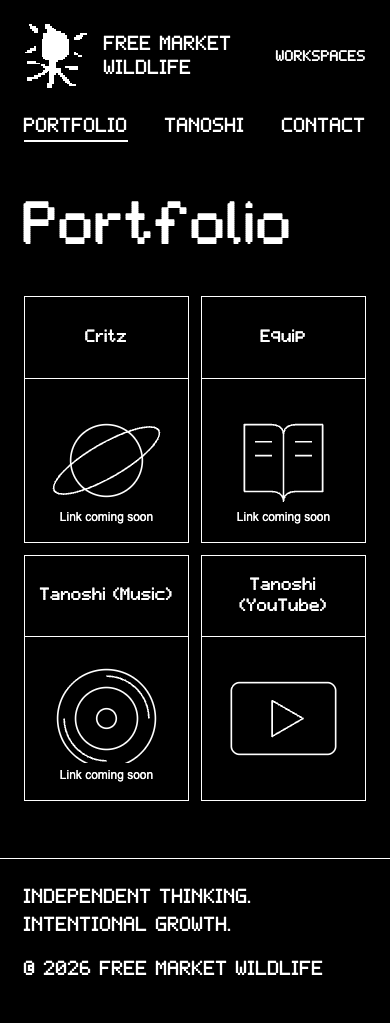
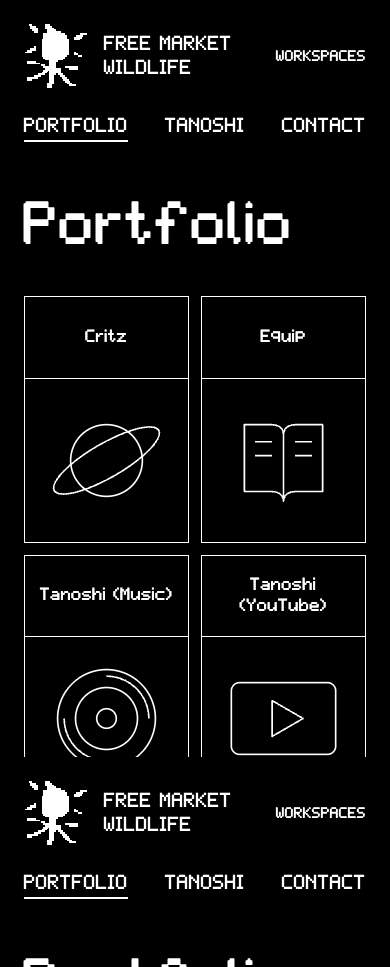
Link portfolio cards to empty project pages and split Tanoshi into Music and YouTube

diff --git a/tanoshi/index.html b/tanoshi/index.html
@@ -5,10 +5,12 @@
   <meta name="viewport" content="width=device-width, initial-scale=1">
   <meta name="color-scheme" content="dark">
   <meta name="theme-color" content="#000000">
-  <meta name="description" content="A creative studio for moving images, original sound, and imagined worlds.">
+  <meta name="description" content="Tanoshi Music and YouTube portfolio.">
   <title>Tanoshi — Free Market Wildlife</title>
   <link rel="icon" href="/assets/images/mark.svg" type="image/svg+xml">
   <link rel="stylesheet" href="/assets/css/styles.css">
+  <link rel="stylesheet" href="/assets/css/portfolio.css?v=1">
+
   <script type="module" src="/assets/js/app.js?v=4-open"></script>
 <script type="module" src="/assets/js/account.js?v=2"></script></head>
 <body>
@@ -18,32 +20,15 @@
   <nav aria-label="Primary"><a href="/portfolio/">Portfolio</a><a href="/tanoshi/" aria-current="page">Tanoshi</a><a href="/contact/">Contact</a></nav>
   <button class="access-button" type="button" data-open-access aria-label="Workspaces"><span>Workspaces</span></button>
 </header>
-<main class="page-main" id="main" tabindex="-1">
-  <div class="page-heading"><div><span class="eyebrow">02 / THE CREATIVE PRACTICE</span><h1>Tanoshi<span class="accent">.</span><br><span class="muted">A little less ordinary.</span></h1></div><p>Moving images. Original sound. Imagined worlds. A home for work made with curiosity.</p></div>
-  <div class="section-rule"><h2>Inside the studio</h2><span class="badge">CATALOG IN PREPARATION</span></div>
-  <div class="studio-grid">
-    <section class="panel film-module"><div class="module-heading"><span class="eyebrow">01 / MOTION & STORY</span><span class="micro">VIDEO</span></div><div class="video-wrapper"><video preload="none" poster="/assets/images/studio-poster.svg" aria-label="Showreel placeholder; no video source has been added"></video><span class="media-note">SHOWREEL PLACEHOLDER · MEDIA COMING SOON</span></div><div class="module-copy"><h2>Stories in motion.</h2><p>A space for films, edits, and visual experiments. Add an approved showreel to bring this frame to life.</p><a class="text-button" href="https://www.youtube.com/" target="_blank" rel="noopener noreferrer">Explore YouTube <span aria-hidden="true">↗</span></a><span class="micro muted">Platform link · creator channel to be added</span></div></section>
-    <section class="panel audio-module"><div class="module-heading"><span class="eyebrow">02 / SOUND & MUSIC</span><span class="micro">AUDIO</span></div><div class="record-art" aria-hidden="true"><div><span>T<br>001</span></div></div><div class="module-copy"><span class="eyebrow">LISTENING ROOM</span><h2>Let it resonate.</h2><p>Original music and audio work. This player is ready for the first approved track.</p><div class="audio-placeholder" role="img" aria-label="Audio player placeholder; no track has been added"><span aria-hidden="true">▸</span> No audio uploaded</div><span class="micro muted">NO AUDIO UPLOADED</span><a class="text-button" href="https://soundcloud.com/" target="_blank" rel="noopener noreferrer">Explore SoundCloud <span aria-hidden="true">↗</span></a><span class="micro muted">Platform link · artist profile to be added</span></div></section>
-    <section class="panel worlds-module"><div><span class="eyebrow">03 / WORLDS & EXPERIMENTS</span><h2>Follow the curiosity.</h2><p>Room for original projects, interactive ideas, and the things that don’t fit neatly into a category.</p><span class="badge">PROJECT ASSETS COMING SOON</span></div><div class="world-art" aria-hidden="true">✳</div></section>
-    <a class="panel studio-contact" href="/contact/"><span class="eyebrow">HAVE SOMETHING IN MIND?</span><h2>Make something<br>that matters.</h2><span class="card-link">Start a conversation <span aria-hidden="true">↗</span></span></a>
+<main class="page-main portfolio-main" id="main" tabindex="-1">
+  <a class="portfolio-back" href="/portfolio/">← Portfolio</a>
+  <h1>Tanoshi</h1>
+  <div class="portfolio-grid" aria-label="Tanoshi portfolio">
+    <a class="portfolio-card" href="/tanoshi/music/"><div class="portfolio-card-heading"><h2>Tanoshi (Music)</h2></div><div class="portfolio-thumbnail"><img src="/assets/images/portfolio/music.svg" width="400" height="400" alt=""></div></a>
+    <a class="portfolio-card" href="/tanoshi/youtube/"><div class="portfolio-card-heading"><h2>Tanoshi (YouTube)</h2></div><div class="portfolio-thumbnail"><img src="/assets/images/portfolio/youtube.svg" width="400" height="400" alt=""></div></a>
   </div>
 </main>
-<footer class="site-footer"><span>INDEPENDENT THINKING. INTENTIONAL GROWTH.</span><span>© <span data-year>2026</span> FREE MARKET WILDLIFE</span><a href="/tutorials/">Tutorials</a></footer>
-<dialog class="access-dialog" id="access-dialog" aria-labelledby="access-title">
-  <div class="dialog-panel">
-    <button class="close-button" type="button" data-close-access aria-label="Close client access">×</button>
-    <span class="eyebrow">CLIENT WORKSPACE</span>
-    <div class="lock-emblem"><img class="pixel-lock" src="/assets/images/lock.svg" width="24" height="28" alt=""></div>
-    <h2 id="access-title">Workspaces</h2>
-    <p class="muted">Choose a workspace to open.</p>
-    <form data-access-form hidden>
-      <label for="access-code">Password</label>
-      <input id="access-code" name="passcode" type="password" autocomplete="off" autocapitalize="off" spellcheck="false" required aria-describedby="access-error" placeholder="Enter password">
-      <p class="form-error" id="access-error" aria-live="polite"></p>
-      <button class="button primary" type="submit">Continue <span aria-hidden="true">→</span></button>
-    </form><nav data-workspace-links aria-label="Workspaces"><ul><li><a href="/kat-kai/">Kat &amp; Kai</a></li><li><a href="/troykearns/">Troy Kearns</a></li><li><a href="/philip-aram/">Philip Aram</a></li></ul></nav>
-    <p class="micro">Temporary preview access. Public content only.</p>
-  </div>
-</dialog>
+<footer class="site-footer"><span></span><span>© <span data-year>2026</span> FREE MARKET WILDLIFE</span></footer>
+<dialog class="access-dialog" id="access-dialog" aria-labelledby="access-title"><div class="dialog-panel"><button class="close-button" type="button" data-close-access aria-label="Close sign in">×</button><h2 id="access-title">Sign in</h2><p role="status">Loading…</p></div></dialog>
 </body>
 </html>

diff --git a/tanoshi/youtube/index.html b/tanoshi/youtube/index.html
@@ -1,0 +1,30 @@
+<!doctype html>
+<html lang="en">
+<head>
+  <meta charset="utf-8">
+  <meta name="viewport" content="width=device-width, initial-scale=1">
+  <meta name="color-scheme" content="dark">
+  <meta name="theme-color" content="#000000">
+  <meta name="description" content="Tanoshi YouTube portfolio.">
+  <title>Tanoshi (YouTube) — Free Market Wildlife</title>
+  <link rel="icon" href="/assets/images/mark.svg" type="image/svg+xml">
+  <link rel="stylesheet" href="/assets/css/styles.css">
+  <link rel="stylesheet" href="/assets/css/portfolio.css?v=1">
+
+  <script type="module" src="/assets/js/app.js?v=4-open"></script>
+<script type="module" src="/assets/js/account.js?v=2"></script></head>
+<body>
+<a class="skip-link" href="#main">Skip to content</a>
+<header class="site-header">
+  <a class="brand" href="/" aria-label="Free Market Wildlife home"><img src="/assets/images/mark.svg" width="64" height="64" alt=""><span>FREE MARKET<br>WILDLIFE</span></a>
+  <nav aria-label="Primary"><a href="/portfolio/">Portfolio</a><a href="/tanoshi/" aria-current="page">Tanoshi</a><a href="/contact/">Contact</a></nav>
+  <button class="access-button" type="button" data-open-access aria-label="Workspaces"><span>Workspaces</span></button>
+</header>
+<main class="page-main portfolio-main" id="main" tabindex="-1">
+  <nav class="portfolio-breadcrumbs" aria-label="Breadcrumb"><a href="/portfolio/">Portfolio</a><span aria-hidden="true">/</span><a href="/tanoshi/">Tanoshi</a></nav>
+  <h1>Tanoshi (YouTube)</h1>
+</main>
+<footer class="site-footer"><span></span><span>© <span data-year>2026</span> FREE MARKET WILDLIFE</span></footer>
+<dialog class="access-dialog" id="access-dialog" aria-labelledby="access-title"><div class="dialog-panel"><button class="close-button" type="button" data-close-access aria-label="Close sign in">×</button><h2 id="access-title">Sign in</h2><p role="status">Loading…</p></div></dialog>
+</body>
+</html>

diff --git a/tanoshi/music/index.html b/tanoshi/music/index.html
@@ -1,0 +1,30 @@
+<!doctype html>
+<html lang="en">
+<head>
+  <meta charset="utf-8">
+  <meta name="viewport" content="width=device-width, initial-scale=1">
+  <meta name="color-scheme" content="dark">
+  <meta name="theme-color" content="#000000">
+  <meta name="description" content="Tanoshi Music portfolio.">
+  <title>Tanoshi (Music) — Free Market Wildlife</title>
+  <link rel="icon" href="/assets/images/mark.svg" type="image/svg+xml">
+  <link rel="stylesheet" href="/assets/css/styles.css">
+  <link rel="stylesheet" href="/assets/css/portfolio.css?v=1">
+
+  <script type="module" src="/assets/js/app.js?v=4-open"></script>
+<script type="module" src="/assets/js/account.js?v=2"></script></head>
+<body>
+<a class="skip-link" href="#main">Skip to content</a>
+<header class="site-header">
+  <a class="brand" href="/" aria-label="Free Market Wildlife home"><img src="/assets/images/mark.svg" width="64" height="64" alt=""><span>FREE MARKET<br>WILDLIFE</span></a>
+  <nav aria-label="Primary"><a href="/portfolio/">Portfolio</a><a href="/tanoshi/" aria-current="page">Tanoshi</a><a href="/contact/">Contact</a></nav>
+  <button class="access-button" type="button" data-open-access aria-label="Workspaces"><span>Workspaces</span></button>
+</header>
+<main class="page-main portfolio-main" id="main" tabindex="-1">
+  <nav class="portfolio-breadcrumbs" aria-label="Breadcrumb"><a href="/portfolio/">Portfolio</a><span aria-hidden="true">/</span><a href="/tanoshi/">Tanoshi</a></nav>
+  <h1>Tanoshi (Music)</h1>
+</main>
+<footer class="site-footer"><span></span><span>© <span data-year>2026</span> FREE MARKET WILDLIFE</span></footer>
+<dialog class="access-dialog" id="access-dialog" aria-labelledby="access-title"><div class="dialog-panel"><button class="close-button" type="button" data-close-access aria-label="Close sign in">×</button><h2 id="access-title">Sign in</h2><p role="status">Loading…</p></div></dialog>
+</body>
+</html>

diff --git a/portfolio/critz/index.html b/portfolio/critz/index.html
@@ -1,0 +1,30 @@
+<!doctype html>
+<html lang="en">
+<head>
+  <meta charset="utf-8">
+  <meta name="viewport" content="width=device-width, initial-scale=1">
+  <meta name="color-scheme" content="dark">
+  <meta name="theme-color" content="#000000">
+  <meta name="description" content="Critz portfolio.">
+  <title>Critz — Free Market Wildlife</title>
+  <link rel="icon" href="/assets/images/mark.svg" type="image/svg+xml">
+  <link rel="stylesheet" href="/assets/css/styles.css">
+  <link rel="stylesheet" href="/assets/css/portfolio.css?v=1">
+
+  <script type="module" src="/assets/js/app.js?v=4-open"></script>
+<script type="module" src="/assets/js/account.js?v=2"></script></head>
+<body>
+<a class="skip-link" href="#main">Skip to content</a>
+<header class="site-header">
+  <a class="brand" href="/" aria-label="Free Market Wildlife home"><img src="/assets/images/mark.svg" width="64" height="64" alt=""><span>FREE MARKET<br>WILDLIFE</span></a>
+  <nav aria-label="Primary"><a href="/portfolio/" aria-current="page">Portfolio</a><a href="/tanoshi/">Tanoshi</a><a href="/contact/">Contact</a></nav>
+  <button class="access-button" type="button" data-open-access aria-label="Workspaces"><span>Workspaces</span></button>
+</header>
+<main class="page-main portfolio-main" id="main" tabindex="-1">
+  <a class="portfolio-back" href="/portfolio/">← Portfolio</a>
+  <h1>Critz</h1>
+</main>
+<footer class="site-footer"><span></span><span>© <span data-year>2026</span> FREE MARKET WILDLIFE</span></footer>
+<dialog class="access-dialog" id="access-dialog" aria-labelledby="access-title"><div class="dialog-panel"><button class="close-button" type="button" data-close-access aria-label="Close sign in">×</button><h2 id="access-title">Sign in</h2><p role="status">Loading…</p></div></dialog>
+</body>
+</html>

diff --git a/portfolio/equip/index.html b/portfolio/equip/index.html
@@ -1,0 +1,30 @@
+<!doctype html>
+<html lang="en">
+<head>
+  <meta charset="utf-8">
+  <meta name="viewport" content="width=device-width, initial-scale=1">
+  <meta name="color-scheme" content="dark">
+  <meta name="theme-color" content="#000000">
+  <meta name="description" content="Equip portfolio.">
+  <title>Equip — Free Market Wildlife</title>
+  <link rel="icon" href="/assets/images/mark.svg" type="image/svg+xml">
+  <link rel="stylesheet" href="/assets/css/styles.css">
+  <link rel="stylesheet" href="/assets/css/portfolio.css?v=1">
+
+  <script type="module" src="/assets/js/app.js?v=4-open"></script>
+<script type="module" src="/assets/js/account.js?v=2"></script></head>
+<body>
+<a class="skip-link" href="#main">Skip to content</a>
+<header class="site-header">
+  <a class="brand" href="/" aria-label="Free Market Wildlife home"><img src="/assets/images/mark.svg" width="64" height="64" alt=""><span>FREE MARKET<br>WILDLIFE</span></a>
+  <nav aria-label="Primary"><a href="/portfolio/" aria-current="page">Portfolio</a><a href="/tanoshi/">Tanoshi</a><a href="/contact/">Contact</a></nav>
+  <button class="access-button" type="button" data-open-access aria-label="Workspaces"><span>Workspaces</span></button>
+</header>
+<main class="page-main portfolio-main" id="main" tabindex="-1">
+  <a class="portfolio-back" href="/portfolio/">← Portfolio</a>
+  <h1>Equip</h1>
+</main>
+<footer class="site-footer"><span></span><span>© <span data-year>2026</span> FREE MARKET WILDLIFE</span></footer>
+<dialog class="access-dialog" id="access-dialog" aria-labelledby="access-title"><div class="dialog-panel"><button class="close-button" type="button" data-close-access aria-label="Close sign in">×</button><h2 id="access-title">Sign in</h2><p role="status">Loading…</p></div></dialog>
+</body>
+</html>

diff --git a/portfolio/index.html b/portfolio/index.html
@@ -26,9 +26,9 @@
   <p class="portfolio-status" data-portfolio-status role="status"></p>
   <button class="portfolio-more" data-portfolio-more type="button" hidden>Load more</button>
   <div data-portfolio-sentinel aria-hidden="true"></div>
-  <noscript><p>Explore <a href="https://www.youtube.com/@TanoshiSan">Tanoshi (YouTube)</a>. Enable JavaScript to view the portfolio grid.</p></noscript>
+  <noscript><nav aria-label="Portfolio"><a href="/portfolio/critz/">Critz</a> · <a href="/portfolio/equip/">Equip</a> · <a href="/tanoshi/music/">Tanoshi (Music)</a> · <a href="/tanoshi/youtube/">Tanoshi (YouTube)</a></nav></noscript>
 </main>
-<footer class="site-footer"><span>INDEPENDENT THINKING. INTENTIONAL GROWTH.</span><span>© <span data-year>2026</span> FREE MARKET WILDLIFE</span></footer>
+<footer class="site-footer"><span></span><span>© <span data-year>2026</span> FREE MARKET WILDLIFE</span></footer>
 <dialog class="access-dialog" id="access-dialog" aria-labelledby="access-title"><div class="dialog-panel"><button class="close-button" type="button" data-close-access aria-label="Close sign in">×</button><h2 id="access-title">Sign in</h2><p role="status">Loading…</p></div></dialog>
 </body>
 </html>

diff --git a/assets/css/portfolio.css b/assets/css/portfolio.css
@@ -14,3 +14,6 @@ a.portfolio-card:hover .portfolio-card-heading, a.portfolio-card:focus-visible .
 [data-portfolio-sentinel] { height: 1px; }
 @media (max-width: 900px) { .portfolio-grid { grid-template-columns: repeat(2, minmax(0, 1fr)); gap: 16px; } .portfolio-card-heading h2 { font-size: 18px; } }
 @media (max-width: 420px) { .portfolio-card-heading h2 { font-size: 14px; } .portfolio-grid { gap: 12px; } }
+
+.portfolio-back { display: inline-block; margin-bottom: 24px; }
+.portfolio-breadcrumbs { display: flex; gap: 12px; margin-bottom: 24px; }

diff --git a/scripts/check_site.py b/scripts/check_site.py
@@ -24,7 +24,7 @@ class Document(HTMLParser):
    if attrs.get(attr):self.refs.append(attrs[attr])
   if tag=='input':require(attrs.get('type')!='tel',f'{self.path}: unexpected contact field')
  def handle_startendtag(self,tag,attrs):self.handle_starttag(tag,attrs)
-PAGES=['tutorials/index.html','tutorials/youtube-stats-access/index.html','privacy/index.html','build-a-business/index.html','troykearns/content-ideas/index.html','kat-kai/content-ideas/index.html','troykearns/strategy/index.html','troykearns/roadmap/index.html','kat-kai/strategy/index.html','kat-kai/roadmap/index.html','philip-aram/index.html','index.html','blog/index.html','portfolio/index.html','tanoshi/index.html','contact/index.html','troy-kearns/index.html','troykearns/index.html','troykearns/statistics/index.html','troykearns/connect/index.html','kat-kai/index.html','kat-kai/statistics/index.html','404.html']
+PAGES=['portfolio/critz/index.html','portfolio/equip/index.html','tanoshi/music/index.html','tanoshi/youtube/index.html','tutorials/index.html','tutorials/youtube-stats-access/index.html','privacy/index.html','build-a-business/index.html','troykearns/content-ideas/index.html','kat-kai/content-ideas/index.html','troykearns/strategy/index.html','troykearns/roadmap/index.html','kat-kai/strategy/index.html','kat-kai/roadmap/index.html','philip-aram/index.html','index.html','blog/index.html','portfolio/index.html','tanoshi/index.html','contact/index.html','troy-kearns/index.html','troykearns/index.html','troykearns/statistics/index.html','troykearns/connect/index.html','kat-kai/index.html','kat-kai/statistics/index.html','404.html']
 for name in PAGES:
  path=ROOT/name;text=path.read_text();doc=Document(name);doc.feed(text)
  require(doc.h1==1,f'{name}: expected one h1');require(doc.main,f'{name}: missing main')
